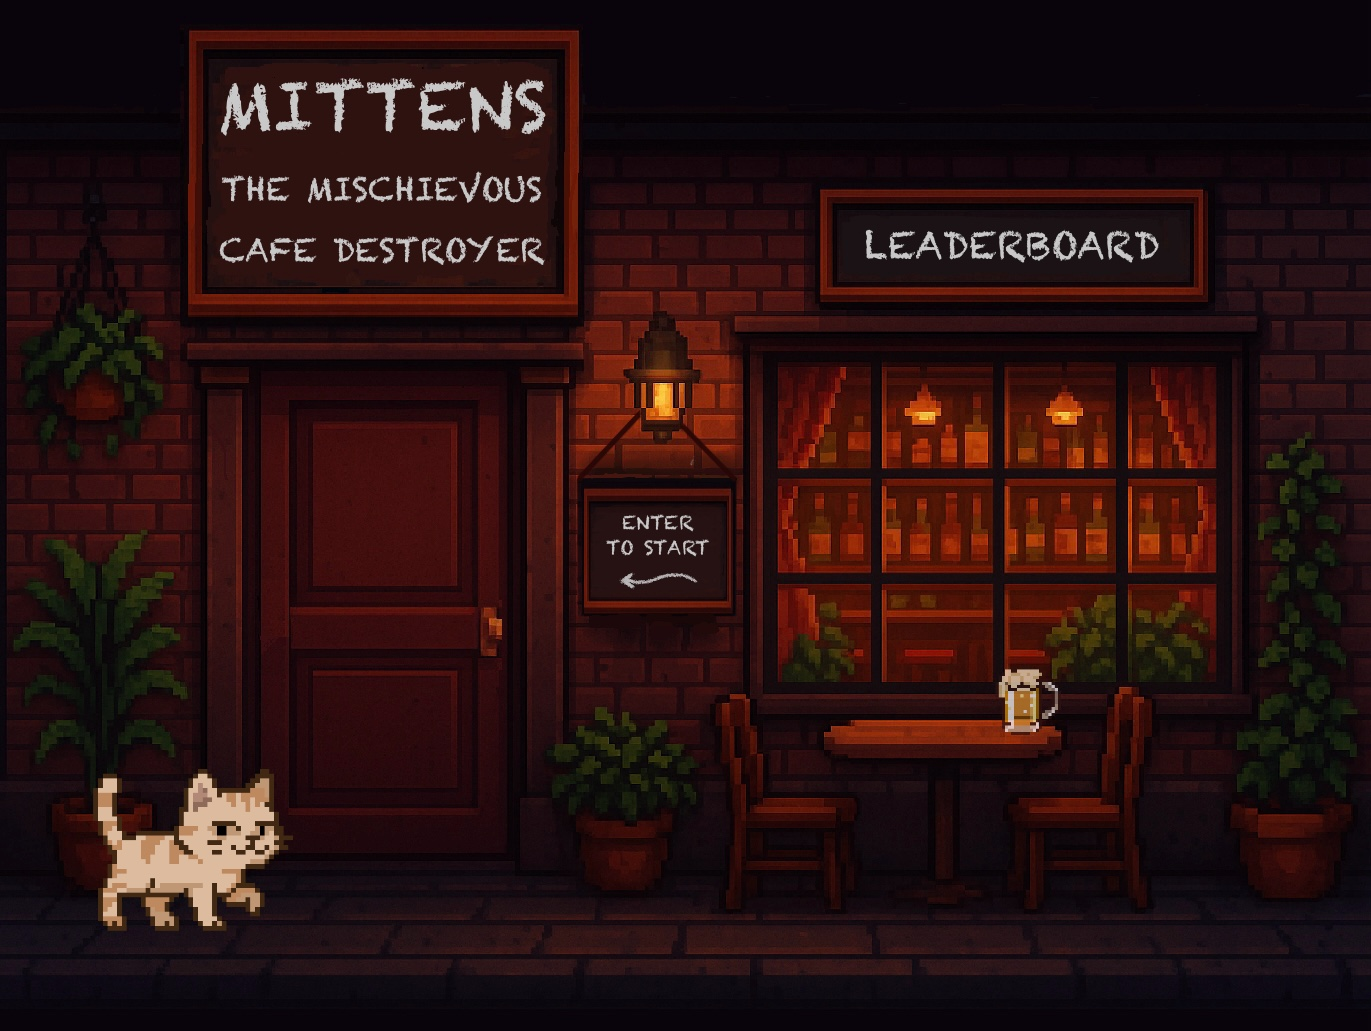
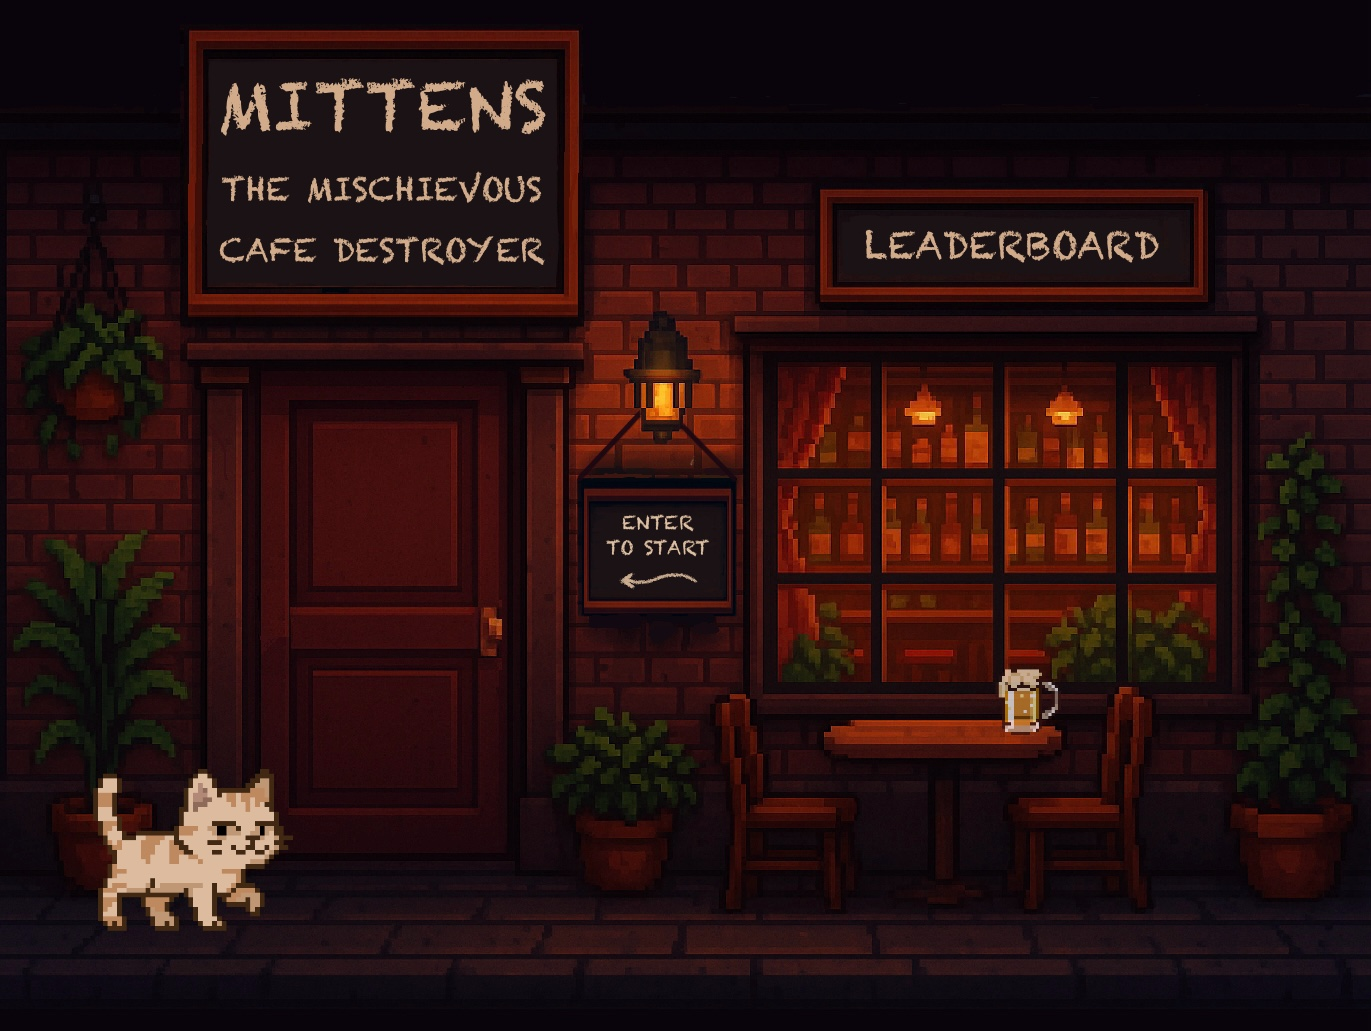
leaderboard screen placeholder added

Changed region(s): [[0.1532, 0.0621, 0.3982, 0.2793], [0.6127, 0.2173, 0.8578, 0.2483]]

diff --git a/screens/menu.py b/screens/menu.py
@@ -1,7 +1,7 @@
 import pygame
 import sys
 import os
-from screens import cafe_destroyer
+from screens import cafe_destroyer,leaderboard_screen
 from core.assets import load_images, load_sounds
 from core.constants import IMG_DIR, SOUND_DIR
 from core.utils import blit_centered_image
@@ -24,6 +24,8 @@ def run_menu():
 
     door_hovered_last = False
     base_door_rect = pygame.Rect(255, 370, 260, 490)
+    base_leaderboard_rect = pygame.Rect(820, 185, 390, 130)
+
 
     while True:
         mouse_pos = pygame.mouse.get_pos()
@@ -33,14 +35,22 @@ def run_menu():
 
         sx = image_rect.width / orig_w
         sy = image_rect.height / orig_h
+
         door_rect = pygame.Rect(
             int(image_rect.x + base_door_rect.x * sx),
             int(image_rect.y + base_door_rect.y * sy),
             int(base_door_rect.width * sx),
             int(base_door_rect.height * sy)
         )
+        leaderboard_rect = pygame.Rect(
+            int(image_rect.x + base_leaderboard_rect.x * sx),
+            int(image_rect.y + base_leaderboard_rect.y * sy),
+            int(base_leaderboard_rect.width * sx),
+            int(base_leaderboard_rect.height * sy)
+        )
 
         is_hovered = door_rect.collidepoint(mouse_pos)
+
         if is_hovered:
             blit_centered_image(screen, pub_open)
             if not door_hovered_last:
@@ -50,6 +60,16 @@ def run_menu():
             blit_centered_image(screen, pub_closed)
             door_hovered_last = False
 
+        if leaderboard_rect.collidepoint(mouse_pos):
+            if not leaderboard_hovered_last:
+                mouse_sound.play()
+            leaderboard_hovered_last = True
+            shadow = pygame.Surface(leaderboard_rect.size, pygame.SRCALPHA)
+            shadow.fill((0, 0, 0, 100))  # translucent black overlay
+            screen.blit(shadow, leaderboard_rect.topleft)
+        else:
+            leaderboard_hovered_last = False
+
         for event in pygame.event.get():
             if event.type == pygame.QUIT:
                 pygame.quit()
@@ -58,9 +78,13 @@ def run_menu():
                 pygame.quit()
                 sys.exit()
             elif event.type == pygame.MOUSEBUTTONDOWN:
-                if is_hovered:
+                if door_rect.collidepoint(mouse_pos):
                     menu_music.stop()
                     cafe_destroyer.run_game()
+                    menu_music.play(-1)
+                elif leaderboard_rect.collidepoint(mouse_pos):
+                    menu_music.stop()
+                    leaderboard_screen.run_screen()
                     menu_music.play(-1)
 
         pygame.display.flip()

diff --git a/screens/leaderboard_screen.py b/screens/leaderboard_screen.py
@@ -1,0 +1,26 @@
+import pygame
+import sys
+
+def run_screen():
+    pygame.init()
+    screen = pygame.display.set_mode((0, 0), pygame.FULLSCREEN)
+    clock = pygame.time.Clock()
+    pygame.display.set_caption("Leaderboard")
+
+    font = pygame.font.SysFont(None, 80)
+    text = font.render("Leaderboard - Coming Soon!", True, (255, 255, 255))
+    text_rect = text.get_rect(center=screen.get_rect().center)
+
+    while True:
+        screen.fill((30, 30, 30))
+        screen.blit(text, text_rect)
+
+        for event in pygame.event.get():
+            if event.type == pygame.QUIT:
+                pygame.quit()
+                sys.exit()
+            elif event.type == pygame.KEYDOWN and event.key == pygame.K_ESCAPE:
+                return
+
+        pygame.display.flip()
+        clock.tick(60)
